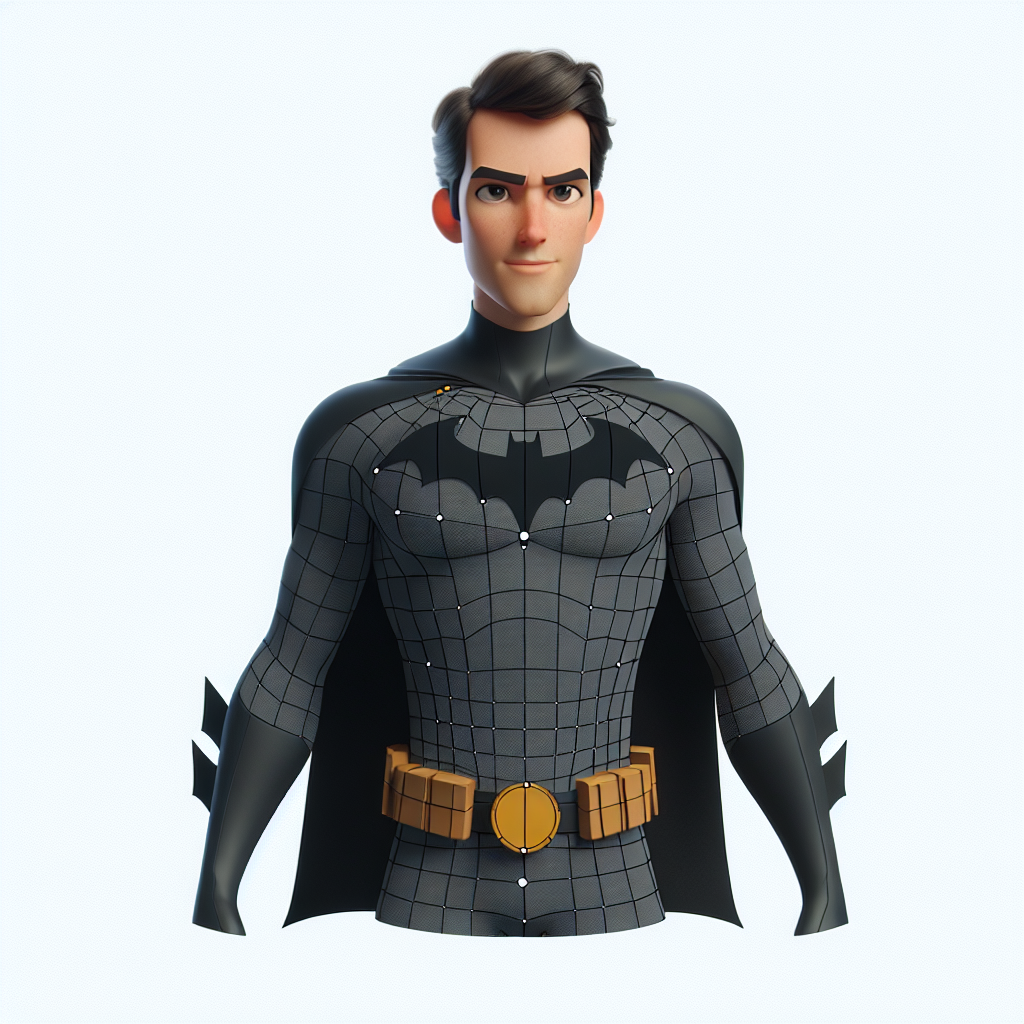
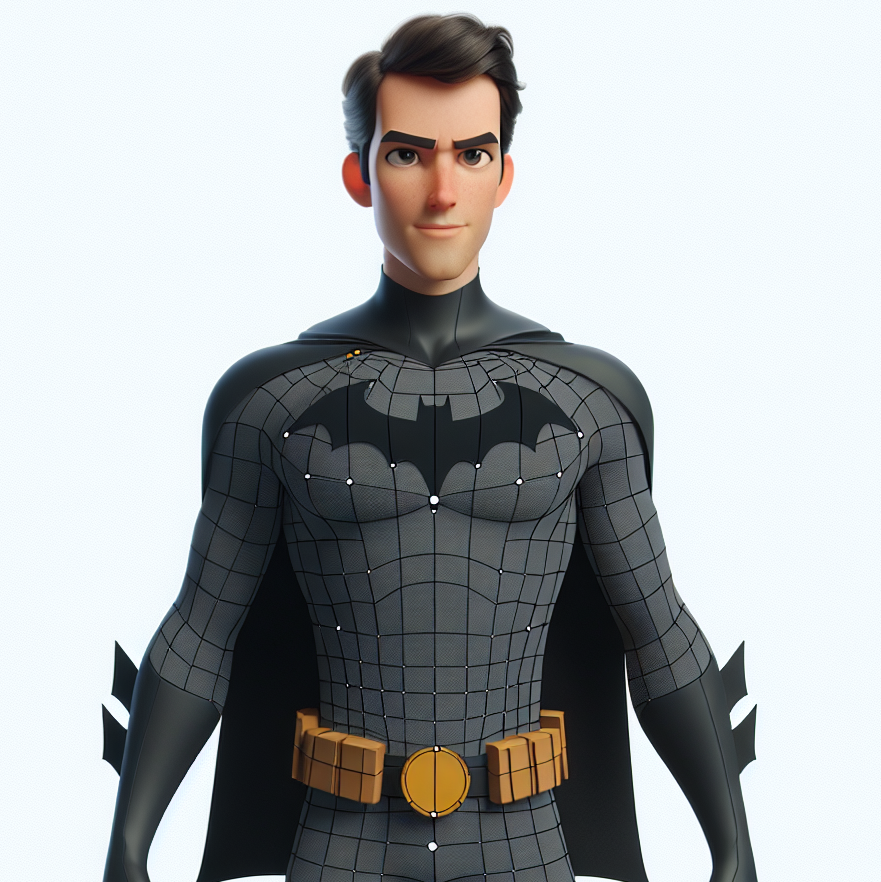
edits

Changed region(s): [[0.0919, 0.0, 0.8581, 1.0]]

diff --git a/src/pages/api/images.ts b/src/pages/api/images.ts
@@ -5,15 +5,15 @@ const openai = new OpenAI({
   apiKey: process.env.OPENAI_API_KEY as string,
 });
 
-const imageSpec = `Generate a 3D, Pixar style character of the Incredibles characters. 
+const imageSpec = `Generate a 3D, Pixar style character. 
 The character should be drawn from the shoulders up, similar to a portrait or avatar and be the central figure on a white background.`;
 
 const prompts = [
-  "Create a character of Mr. Incredible from the Pixar movie the Incredibles",
-  "Create a character of Elasti-Girl from the Pixar movie the Incredibles",
-  "Create a character of Dash from the Pixar movie the Incredibles",
-  "Create a character of Violet from the Pixar movie the Incredibles",
-  "Create a character of Jack Jack from the Pixar movie the Incredibles",
+  "Create a character of IronMan",
+  "Create a character of AquaMan",
+  "Create a character of Doctor Strange",
+  "Create a character of Groot from the Marvel movie Guardians of the Galaxy",
+  "Create a character of the Joker from BatMan",
 ];
 
 export default async function handler(
